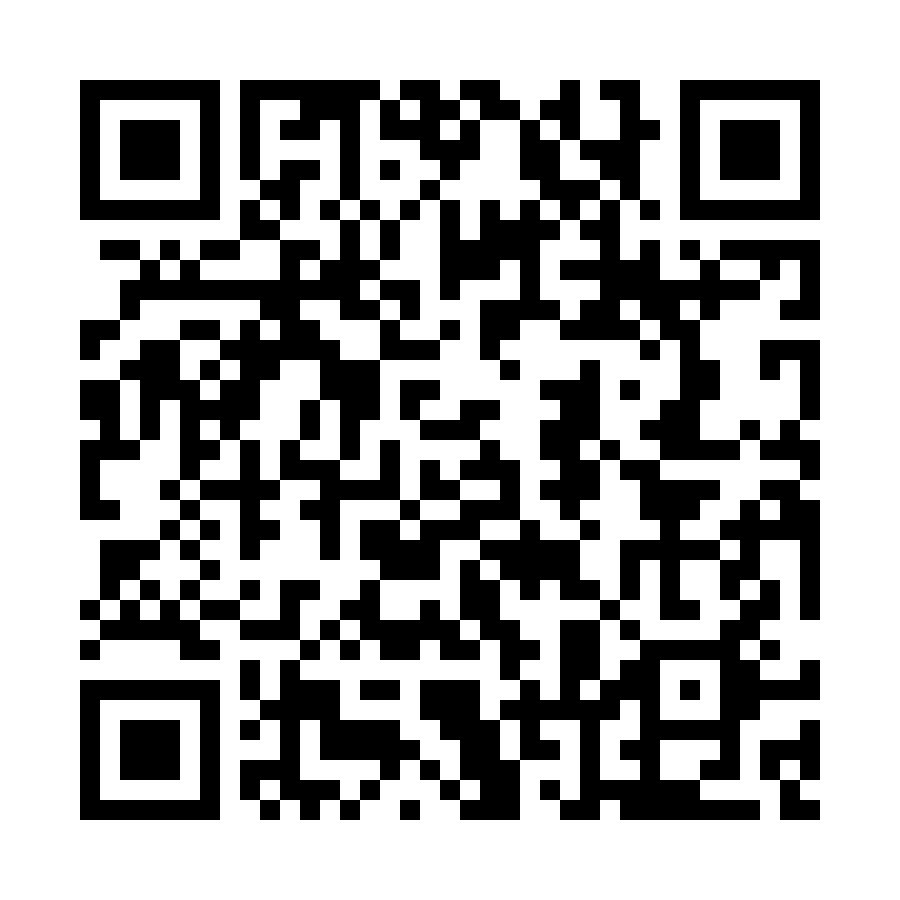
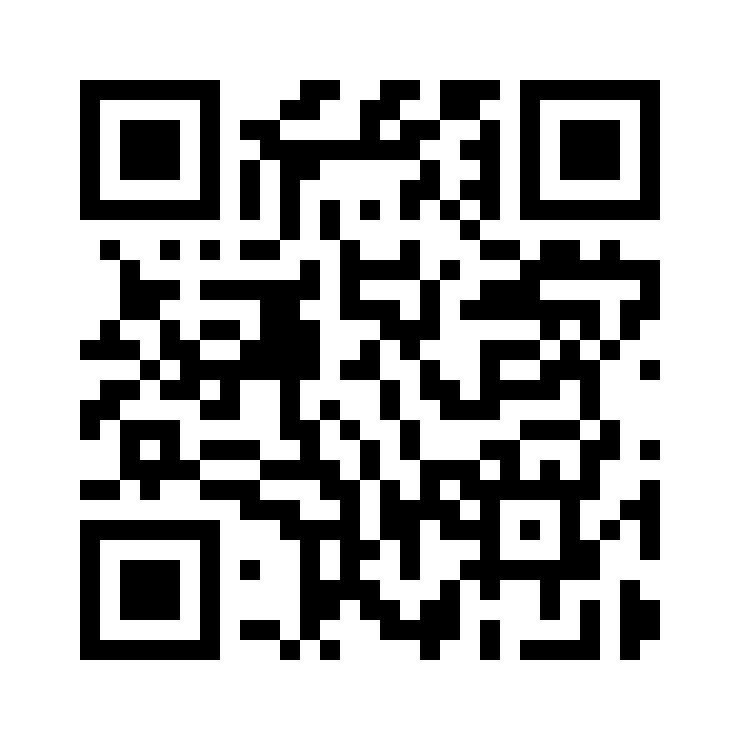
Trabajo final Completo carepichas !!!!!

diff --git a/Cine/Factura.aspx.cs b/Cine/Factura.aspx.cs
@@ -10,6 +10,7 @@ using System.Web.UI.WebControls;
 using System.Windows.Controls.Primitives;
 using System.Windows.Documents;
 using QRCoder;
+using static QRCoder.PayloadGenerator;
 
 namespace Cine
 {
@@ -21,6 +22,7 @@ namespace Cine
             {
                 string qrCodeDataUrl = GenerateQRCode(DatosFactura()); //genera el QR con el string que sale del metodo DatosFactura, ademas de llenar el div los datos de la pelicula seleccionada
                 qrCodeImage.ImageUrl = qrCodeDataUrl;
+                RegistrarReservaYFactura(qrCodeDataUrl + DateTime.Now.ToString());
 
                 ////esto carga la cantidad de asientos seleccionados para usar el dato en una operación para conseguir el total a cobrar. 
                 //if (Session["asientosSeleccionados"] != null && Session["cantidadAsientos"] != null)
@@ -94,7 +96,7 @@ namespace Cine
             string QRString;
             try
             {
-                if ( (Session["pelicula"] != null) && (Session["UserLogin"] != null) )
+                if ((Session["pelicula"] != null) && (Session["UserLogin"] != null))
                 {
                     Ticket datosPeli = (Ticket)Session["pelicula"];
                     User datosUsuario = (User)Session["UserLogin"];
@@ -110,7 +112,7 @@ namespace Cine
                     </div>
                     ";
 
-                    QRString = datosPeli.pelicula.nombrePelicula + datosPeli.pelicula.horario.ToString()+datosUsuario.username;
+                    QRString = datosPeli.pelicula.nombrePelicula + datosPeli.pelicula.horario.ToString() + datosUsuario.username;
                 }
                 else
                 {
@@ -118,11 +120,12 @@ namespace Cine
                     mensajeTexto.InnerText = "Ocurrió un error. Será redireccionado a la pagina principal.";
                     divMensaje.Style["display"] = "block";
                     Thread.Sleep(3000);
-                    Response.Redirect("HomePage.aspx"); 
+                    Response.Redirect("HomePage.aspx");
                 }
 
             }
-            catch (Exception ex) {
+            catch (Exception ex)
+            {
                 QRString = null;
                 mensajeTexto.InnerText = "Ocurrió un error: " + ex.Message;
                 divMensaje.Style["display"] = "block";
@@ -130,7 +133,60 @@ namespace Cine
             return QRString;
         }
 
+        public int ObtenerIDUsuario()
+        {
+            try
+            {
+                // Obtener el correo electrónico del usuario desde la sesión
+                User datosUsuario = (User)Session["UserLogin"];
+                string email = datosUsuario.username;
+
+                // Crear una instancia de la capa de negocios
+                Negocios.lnCine negocio = new Negocios.lnCine();
+
+                // Llamar al método para obtener el ID del usuario
+                int idUsuario = negocio.ObtenerIDUsuario_Negocios(email);
+                return idUsuario;
+            }
+            catch (Exception ex)
+            {
+                mensajeTexto.InnerText = "Error: " + ex.Message;
+                divMensaje.Style["display"] = "block";
+                return -1; // Error al obtener el ID
+            }
+        }
+
 
         //nuevo metodo (tiene que hacer la instancia a negocios)
+        public string RegistrarReservaYFactura(string QR)
+        {
+            try
+            {
+
+                // Obtener el ID del usuario desde la sesión
+                User datosUsuario = (User)Session["UserLogin"];
+                int idUsuario = ObtenerIDUsuario();
+
+                // Obtener el ID de la película desde la sesión
+                Ticket datosPeli = (Ticket)Session["pelicula"];
+                int idPelicula = datosPeli.pelicula.id;
+
+                // Obtener el número de reserva y la cantidad de asientos desde la sesión
+                string numeroReserva = QR;
+                int cantidadAsientos = (int)Session["cantidadAsientos"];
+
+                // Crear una instancia de la capa de negocios
+                Negocios.lnCine negocio = new Negocios.lnCine();
+
+                // Llamar al método para crear la reserva y factura
+                int idFactura = negocio.CrearReservaYFactura_Negocios(idUsuario, idPelicula, numeroReserva, cantidadAsientos);
+                return "Factura creada con éxito. ID de factura: " + idFactura;
+            }
+            catch (Exception ex)
+            {
+                return "Error: " + ex.Message;
+            }
+
+        }
     }
 }

diff --git a/Datos/ldCine.cs b/Datos/ldCine.cs
@@ -13,6 +13,7 @@ using System.Threading.Tasks;
 using System.Data.SqlClient;//leer información con ADO.net
 using System.Configuration;
 using System.Data;
+using Microsoft.Win32;
 
 namespace Datos
 {
@@ -199,8 +200,99 @@ namespace Datos
             return dt;
         }
 
-        //metodo de factura a base de datos
+
+        //---FACTURA---
+
+        //metodo de sp_ObtenerIDUsuario
+        public int ObtenerIDUsuario(string Email)
+        {
+            try
+            {
+                _connection.Open();
+                SqlCommand cmd = new SqlCommand("dbo.sp_ObtenerIDUsuario", _connection);
+                cmd.CommandType = CommandType.StoredProcedure;
+
+                cmd.Parameters.AddWithValue("@Email", string.IsNullOrEmpty(Email) ? (object)DBNull.Value : Email);
+
+                object result = cmd.ExecuteScalar();
+
+                return result != null ? Convert.ToInt32(result) : -1;
+            }
+            catch (Exception)
+            {
+                return -1;
+            }
+            finally
+            {
+                _connection.Close();
+            }
+        }
 
 
+        //metodo de sp_CrearReservaYFactura
+        public int CrearReservaYFactura(int idUsuario, int idPelicula, string numeroReserva, int cantidadAsientos)
+        {
+            try
+            {
+                _connection.Open();
+                SqlCommand cmd = new SqlCommand("dbo.sp_CrearReservaYFactura", _connection);
+                cmd.CommandType = CommandType.StoredProcedure;
+
+                cmd.Parameters.AddWithValue("@ID_Usuario", idUsuario);
+                cmd.Parameters.AddWithValue("@ID_Pelicula", idPelicula);
+                cmd.Parameters.AddWithValue("@Numero_Reserva", numeroReserva);
+                cmd.Parameters.AddWithValue("@Cantidad_Asientos", cantidadAsientos);
+
+                // Agregar el parámetro de salida
+                SqlParameter outputIdFactura = new SqlParameter("@ID_Factura", SqlDbType.Int)
+                {
+                    Direction = ParameterDirection.Output
+                };
+                cmd.Parameters.Add(outputIdFactura);
+
+                cmd.ExecuteNonQuery();
+
+                return (int)cmd.Parameters["@ID_Factura"].Value;
+            }
+            catch (Exception)
+            {
+                return -1; // Error al obtener el ID
+            }
+            finally
+            {
+                _connection.Close();
+            }
+        }
+
+
+        //metodo de sp_ObtenerFacturaFinal}
+        public DataTable ObtenerFacturaFinal(int idFactura)
+        {
+            DataTable facturaTabla = new DataTable();
+
+            try
+            {
+                _connection.Open();
+                SqlCommand cmd = new SqlCommand("dbo.sp_ObtenerFacturaFinal", _connection);
+                cmd.CommandType = CommandType.StoredProcedure;
+
+                using (SqlDataReader reader = cmd.ExecuteReader())
+                {
+                    facturaTabla.Load(reader);
+                }
+
+                return facturaTabla;
+            }
+            catch (Exception ex)
+            {
+                // Manejo de errores  
+                Console.WriteLine("Error: " + ex.Message);
+                return facturaTabla;
+            }
+            finally
+            {
+                _connection.Close();
+            }
+        }
     }
 }

diff --git a/Negocios/lnCine.cs b/Negocios/lnCine.cs
@@ -52,5 +52,46 @@ namespace Negocios
                 throw;
             }
         }
+
+        //---FACTURA---
+
+        // Método buscar id Usuario
+        public int ObtenerIDUsuario_Negocios(string email)
+        {
+            try
+            {
+                return _datos.ObtenerIDUsuario(email);
+            }
+            catch (Exception)
+            {
+                throw;
+            }
+        }
+
+        // Método CrearReservaYFactura
+        public int CrearReservaYFactura_Negocios(int idUsuario, int idPelicula, string numeroReserva, int cantidadAsientos)
+        {
+            try
+            {
+                return _datos.CrearReservaYFactura(idUsuario, idPelicula, numeroReserva, cantidadAsientos);
+            }
+            catch (Exception)
+            {
+                throw;
+            }
+        }
+
+        // Método ObtenerFacturaFinal
+        public DataTable ObtenerFacturaFinal_Negocios(int idFactura)
+        {
+            try
+            {
+                return _datos.ObtenerFacturaFinal(idFactura);
+            }
+            catch (Exception)
+            {
+                throw;
+            }
+        }
     }
 }

diff --git a/Cine/Login.aspx.cs b/Cine/Login.aspx.cs
@@ -25,9 +25,14 @@ namespace Cine
 
             var usuario = _negocios.BuscarUsuario_Negocios(email, password);
 
+            User user = new User();
+
+            // Validar el usuario
             if (usuario.Rows.Count > 0)
             {
-                Session["UserLogin"] = usuario.Rows[0]["Email"].ToString();
+                user.username = usuario.Rows[0]["Email"].ToString();
+                user.password = usuario.Rows[0]["Pass"].ToString();
+                Session["UserLogin"] = user;
                 Response.Redirect("HomePage.aspx");
             }
             else
